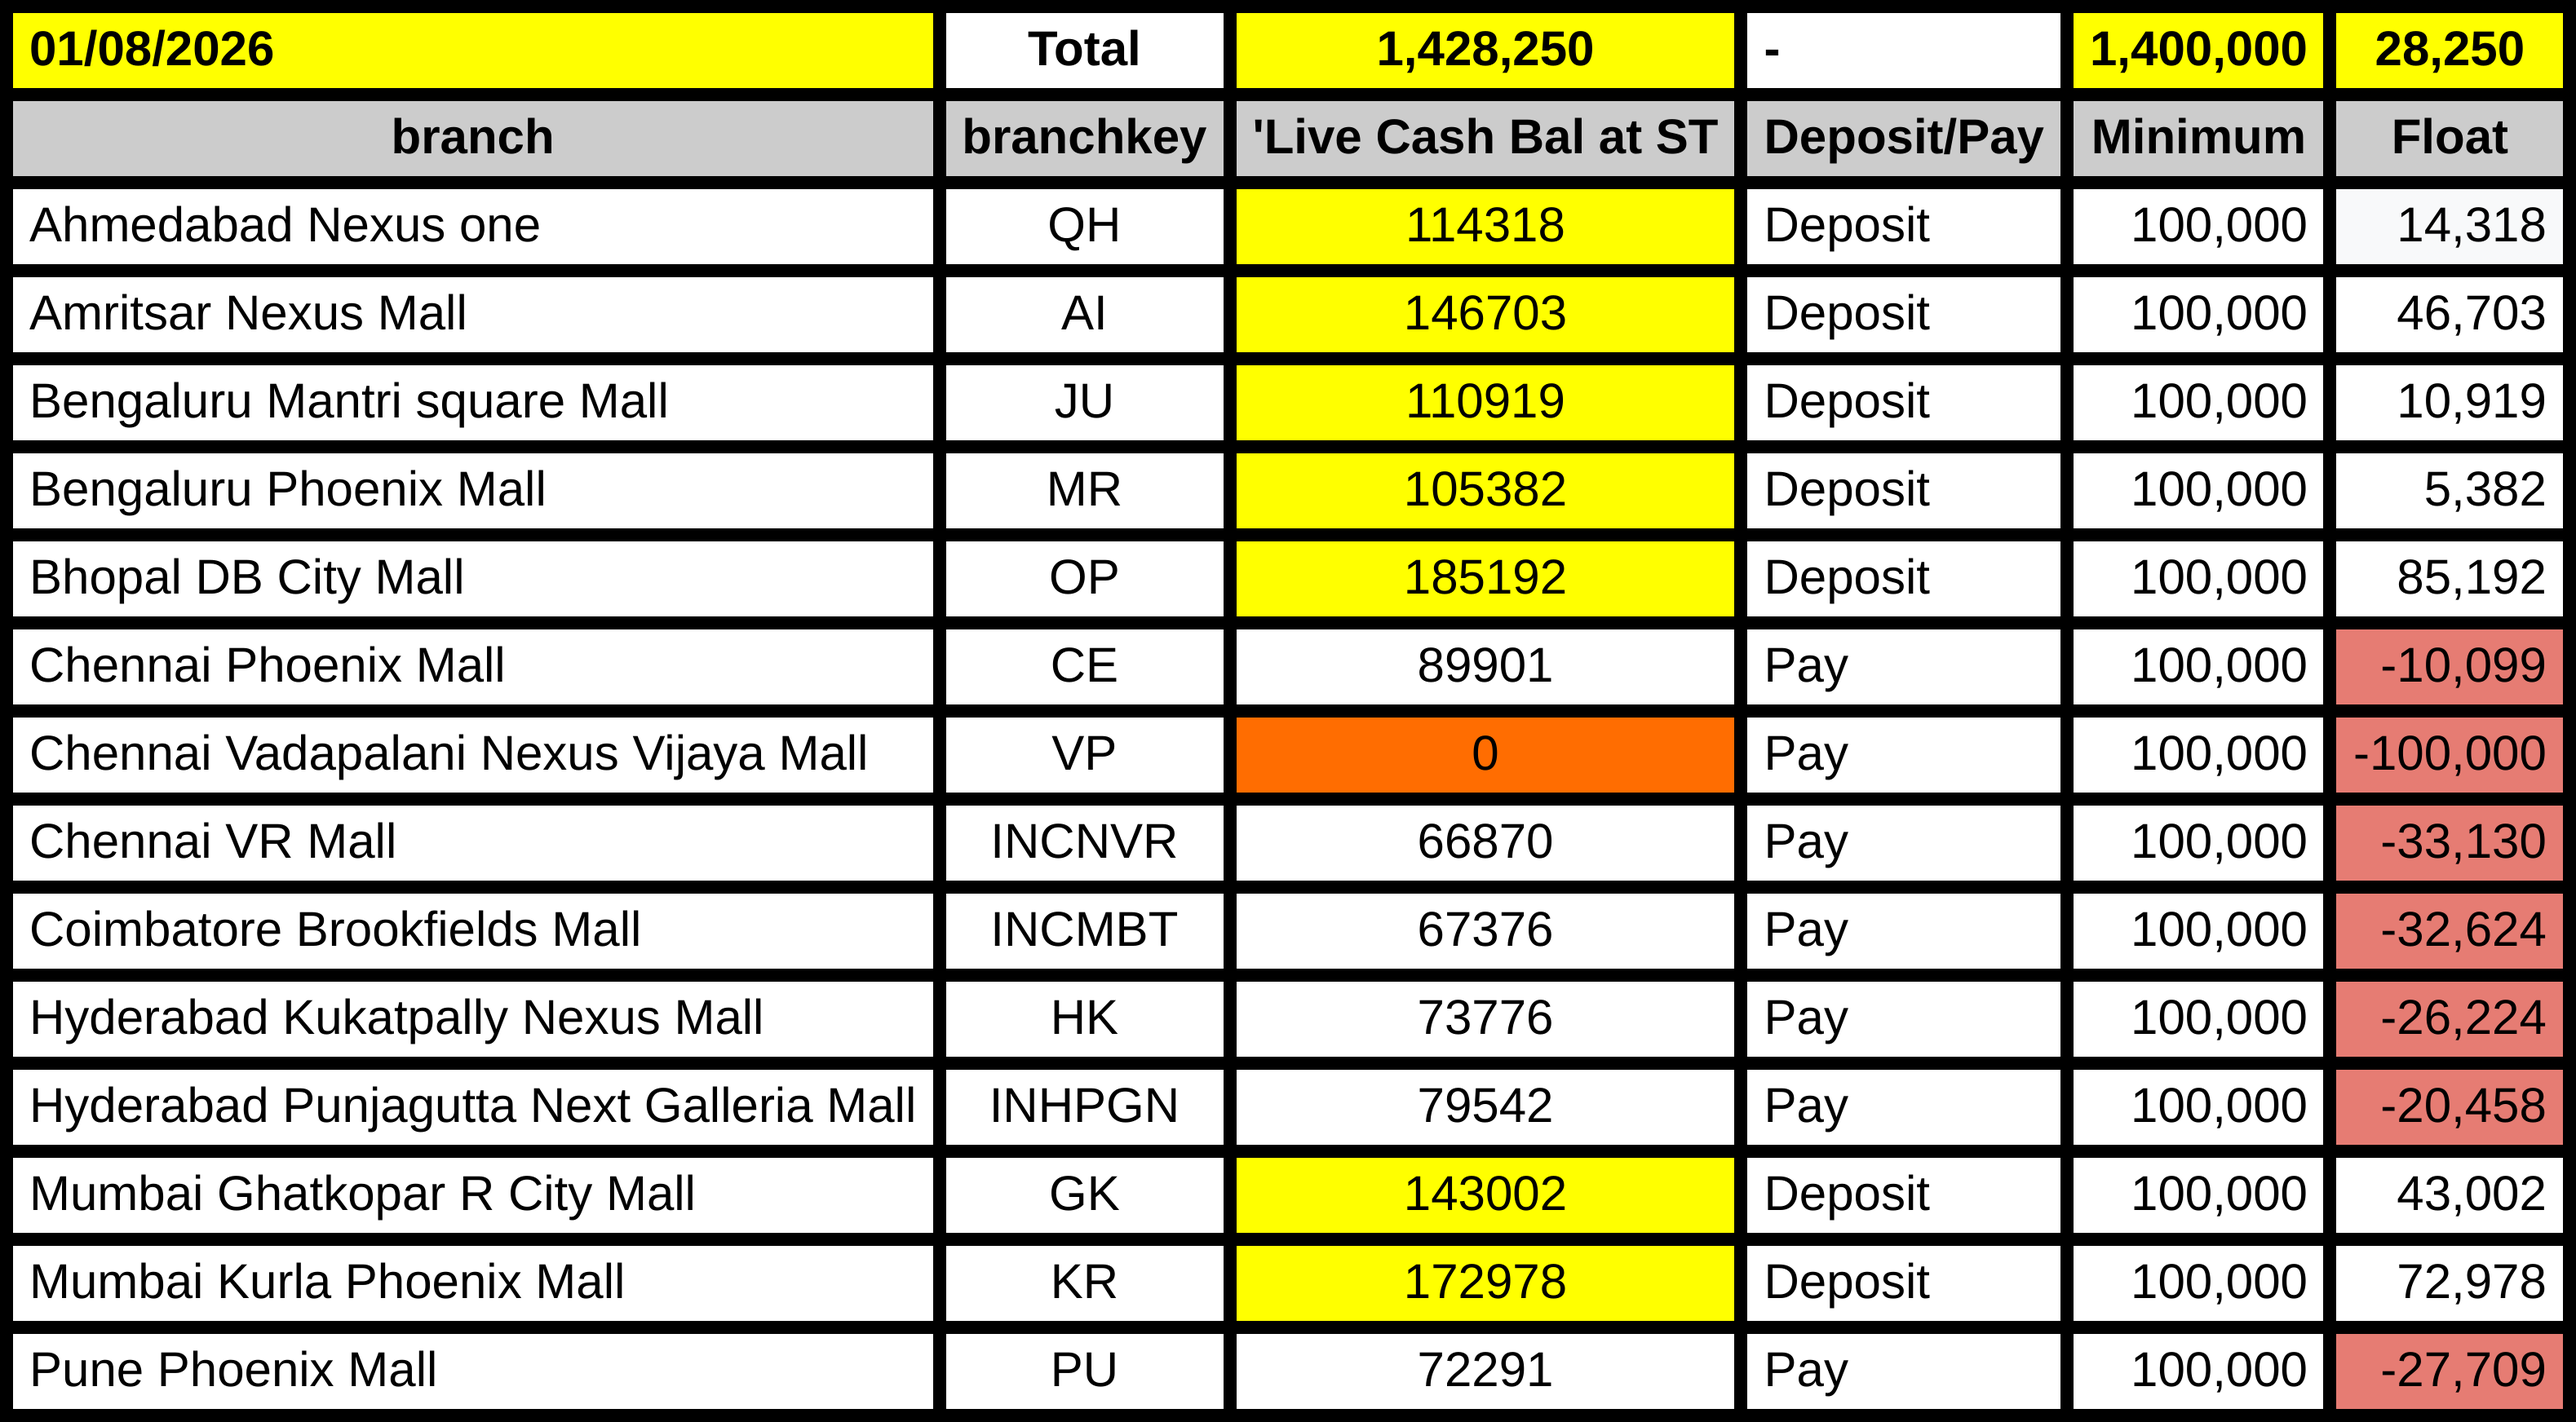
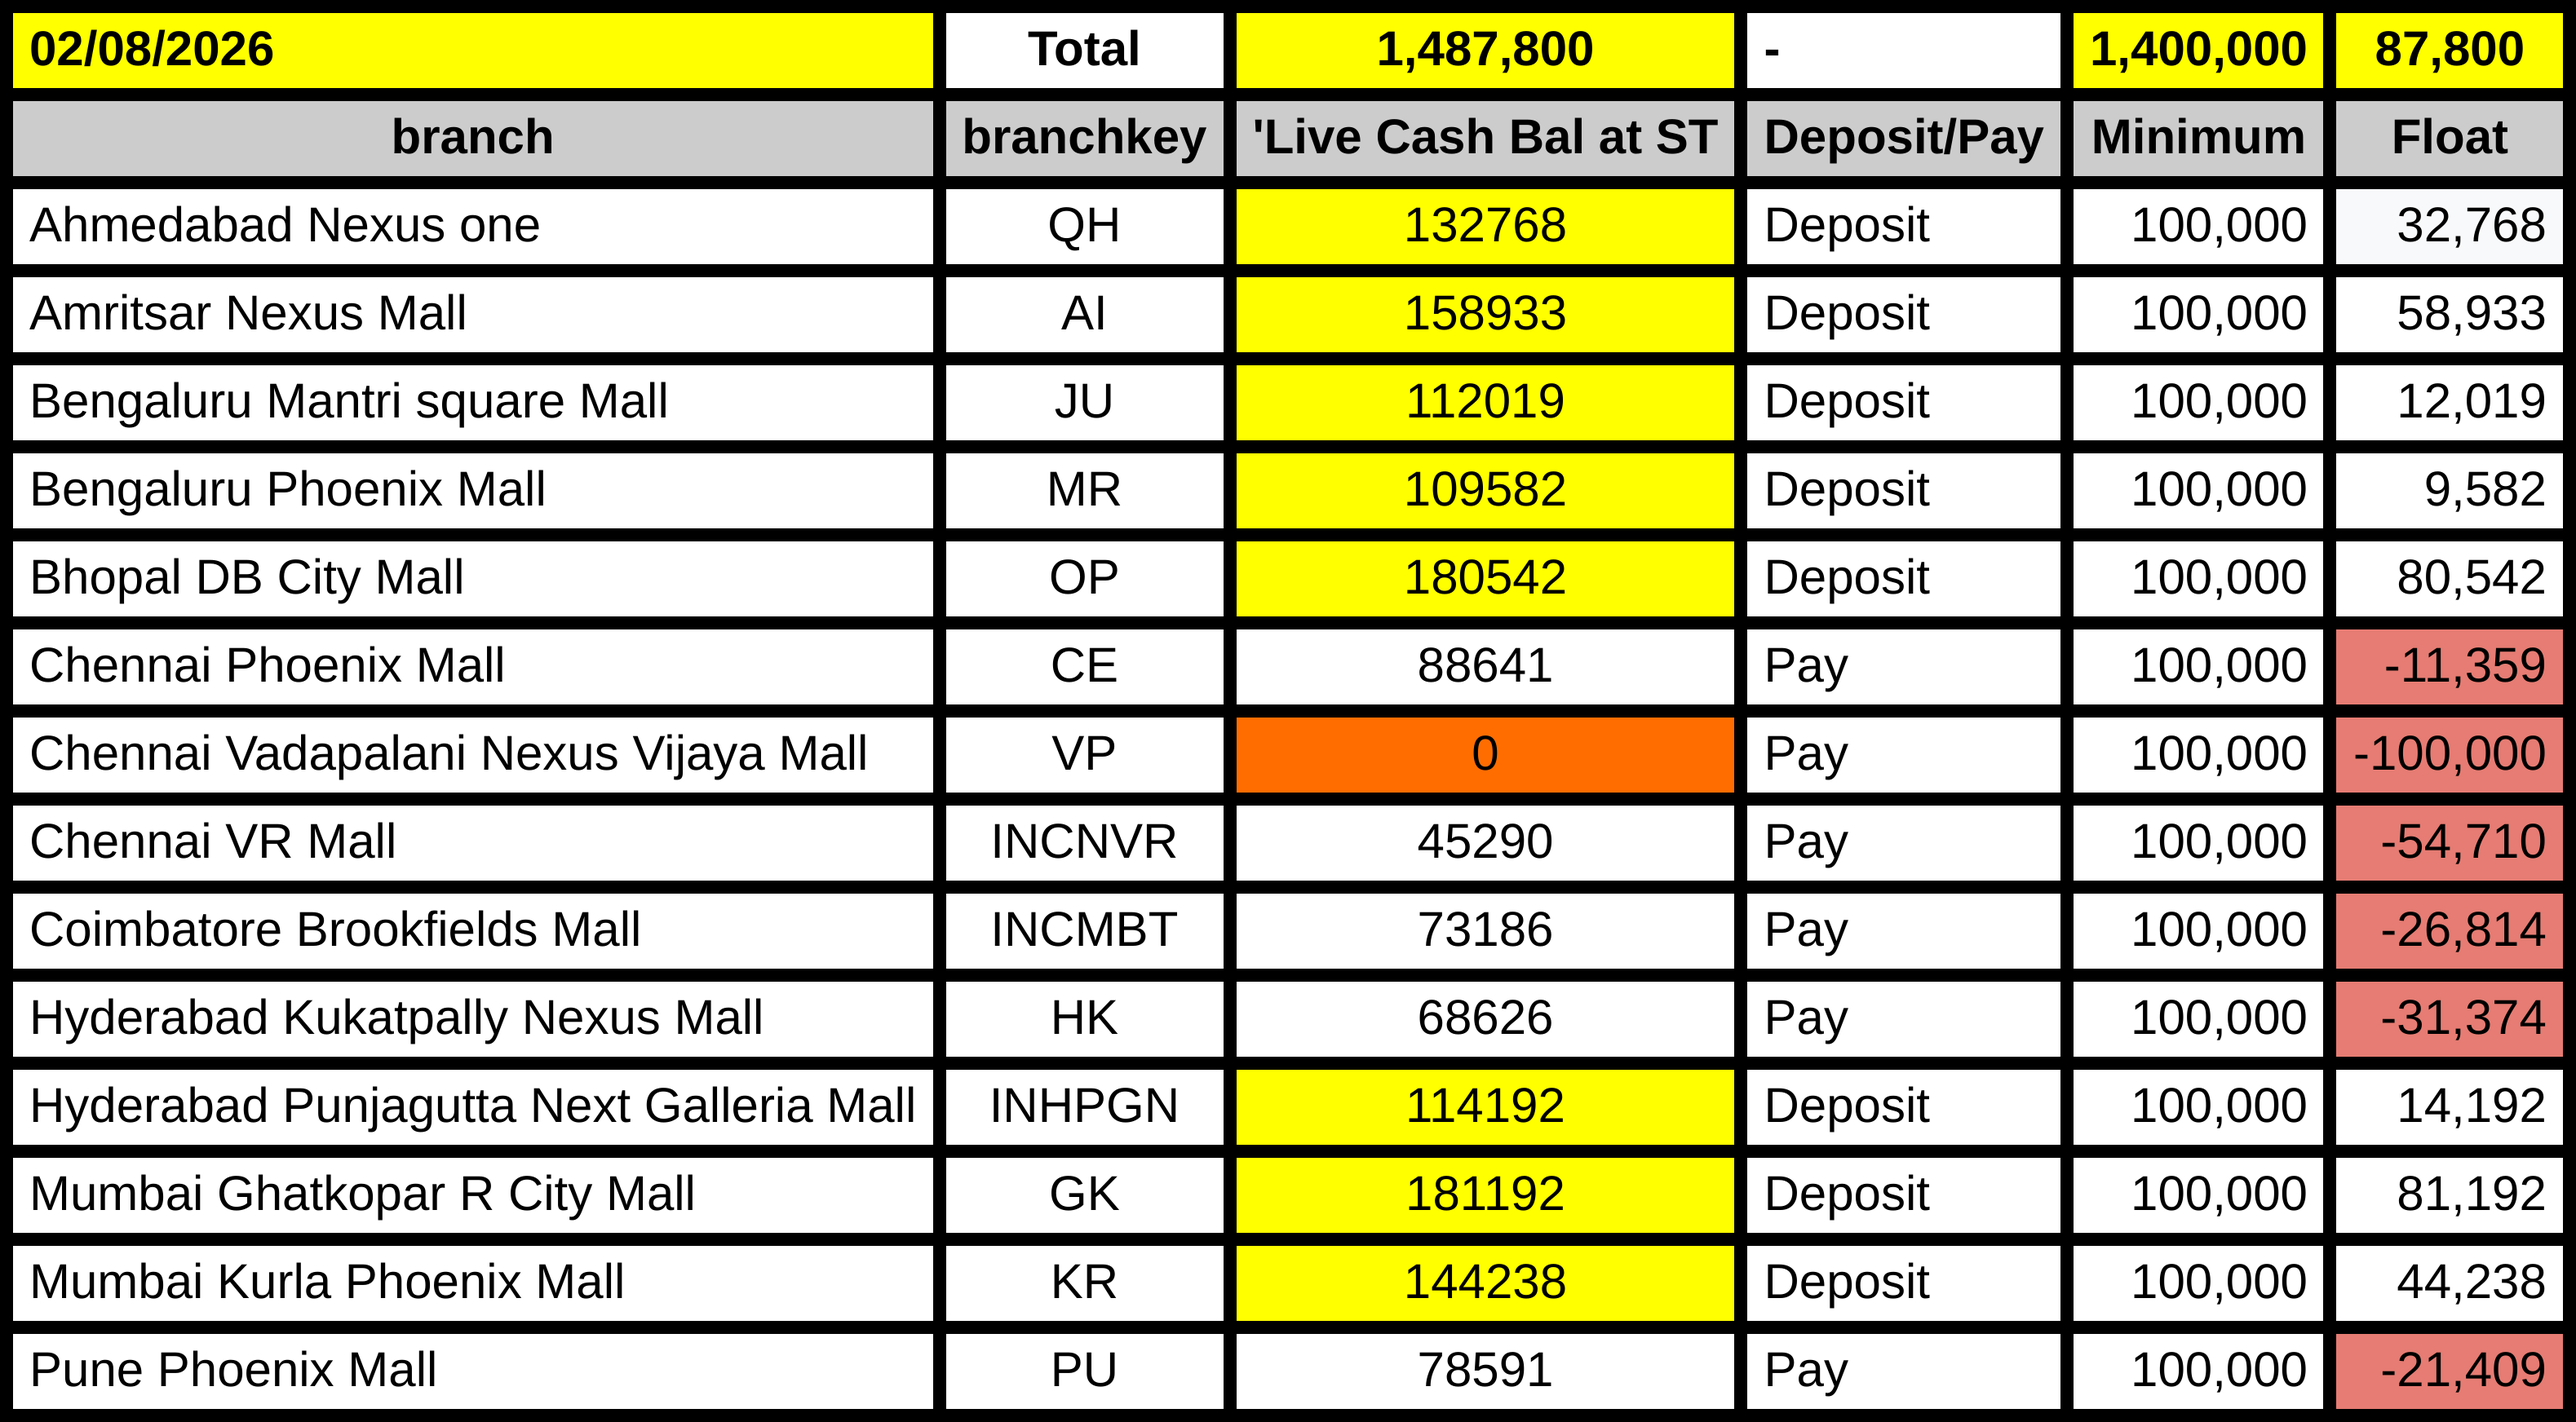
deploy: aaf780430418d9f4a7e42f8ecd05fb646ee4f24b

diff --git a/table.html b/table.html
@@ -21,7 +21,7 @@
           font-family: Arial, sans-serif;
           font-size: 30px;
           white-space: nowrap;
-        ">01/08/2026</td>
+        ">02/08/2026</td>
       
         <td style="
           background-color: #ffffff;
@@ -49,7 +49,7 @@
           font-family: Arial, sans-serif;
           font-size: 30px;
           white-space: nowrap;
-        ">1,428,250</td>
+        ">1,487,800</td>
       
         <td style="
           background-color: #ffffff;
@@ -91,7 +91,7 @@
           font-family: Arial, sans-serif;
           font-size: 30px;
           white-space: nowrap;
-        ">28,250</td>
+        ">87,800</td>
       </tr><tr>
         <td style="
           background-color: #cccccc;
@@ -217,7 +217,7 @@
           font-family: Arial, sans-serif;
           font-size: 30px;
           white-space: nowrap;
-        ">114318</td>
+        ">132768</td>
       
         <td style="
           background-color: #ffffff;
@@ -259,7 +259,7 @@
           font-family: Arial, sans-serif;
           font-size: 30px;
           white-space: nowrap;
-        ">14,318</td>
+        ">32,768</td>
       </tr><tr>
         <td style="
           background-color: #ffffff;
@@ -301,7 +301,7 @@
           font-family: Arial, sans-serif;
           font-size: 30px;
           white-space: nowrap;
-        ">146703</td>
+        ">158933</td>
       
         <td style="
           background-color: #ffffff;
@@ -343,7 +343,7 @@
           font-family: Arial, sans-serif;
           font-size: 30px;
           white-space: nowrap;
-        ">46,703</td>
+        ">58,933</td>
       </tr><tr>
         <td style="
           background-color: #ffffff;
@@ -385,7 +385,7 @@
           font-family: Arial, sans-serif;
           font-size: 30px;
           white-space: nowrap;
-        ">110919</td>
+        ">112019</td>
       
         <td style="
           background-color: #ffffff;
@@ -427,7 +427,7 @@
           font-family: Arial, sans-serif;
           font-size: 30px;
           white-space: nowrap;
-        ">10,919</td>
+        ">12,019</td>
       </tr><tr>
         <td style="
           background-color: #ffffff;
@@ -469,7 +469,7 @@
           font-family: Arial, sans-serif;
           font-size: 30px;
           white-space: nowrap;
-        ">105382</td>
+        ">109582</td>
       
         <td style="
           background-color: #ffffff;
@@ -511,7 +511,7 @@
           font-family: Arial, sans-serif;
           font-size: 30px;
           white-space: nowrap;
-        ">5,382</td>
+        ">9,582</td>
       </tr><tr>
         <td style="
           background-color: #ffffff;
@@ -553,7 +553,7 @@
           font-family: Arial, sans-serif;
           font-size: 30px;
           white-space: nowrap;
-        ">185192</td>
+        ">180542</td>
       
         <td style="
           background-color: #ffffff;
@@ -595,7 +595,7 @@
           font-family: Arial, sans-serif;
           font-size: 30px;
           white-space: nowrap;
-        ">85,192</td>
+        ">80,542</td>
       </tr><tr>
         <td style="
           background-color: #ffffff;
@@ -637,7 +637,7 @@
           font-family: Arial, sans-serif;
           font-size: 30px;
           white-space: nowrap;
-        ">89901</td>
+        ">88641</td>
       
         <td style="
           background-color: #ffffff;
@@ -679,7 +679,7 @@
           font-family: Arial, sans-serif;
           font-size: 30px;
           white-space: nowrap;
-        ">-10,099</td>
+        ">-11,359</td>
       </tr><tr>
         <td style="
           background-color: #ffffff;
@@ -805,7 +805,7 @@
           font-family: Arial, sans-serif;
           font-size: 30px;
           white-space: nowrap;
-        ">66870</td>
+        ">45290</td>
       
         <td style="
           background-color: #ffffff;
@@ -847,7 +847,7 @@
           font-family: Arial, sans-serif;
           font-size: 30px;
           white-space: nowrap;
-        ">-33,130</td>
+        ">-54,710</td>
       </tr><tr>
         <td style="
           background-color: #ffffff;
@@ -889,7 +889,7 @@
           font-family: Arial, sans-serif;
           font-size: 30px;
           white-space: nowrap;
-        ">67376</td>
+        ">73186</td>
       
         <td style="
           background-color: #ffffff;
@@ -931,7 +931,7 @@
           font-family: Arial, sans-serif;
           font-size: 30px;
           white-space: nowrap;
-        ">-32,624</td>
+        ">-26,814</td>
       </tr><tr>
         <td style="
           background-color: #ffffff;
@@ -973,7 +973,7 @@
           font-family: Arial, sans-serif;
           font-size: 30px;
           white-space: nowrap;
-        ">73776</td>
+        ">68626</td>
       
         <td style="
           background-color: #ffffff;
@@ -1015,7 +1015,7 @@
           font-family: Arial, sans-serif;
           font-size: 30px;
           white-space: nowrap;
-        ">-26,224</td>
+        ">-31,374</td>
       </tr><tr>
         <td style="
           background-color: #ffffff;
@@ -1046,7 +1046,7 @@
         ">INHPGN</td>
       
         <td style="
-          background-color: #ffffff;
+          background-color: #ffff00;
           color: #000000;
           font-weight: normal;
           font-style: normal;
@@ -1057,7 +1057,7 @@
           font-family: Arial, sans-serif;
           font-size: 30px;
           white-space: nowrap;
-        ">79542</td>
+        ">114192</td>
       
         <td style="
           background-color: #ffffff;
@@ -1071,7 +1071,7 @@
           font-family: Arial, sans-serif;
           font-size: 30px;
           white-space: nowrap;
-        ">Pay</td>
+        ">Deposit</td>
       
         <td style="
           background-color: #ffffff;
@@ -1088,7 +1088,7 @@
         ">100,000</td>
       
         <td style="
-          background-color: #e67c73;
+          background-color: #ffffff;
           color: #000000;
           font-weight: normal;
           font-style: normal;
@@ -1099,7 +1099,7 @@
           font-family: Arial, sans-serif;
           font-size: 30px;
           white-space: nowrap;
-        ">-20,458</td>
+        ">14,192</td>
       </tr><tr>
         <td style="
           background-color: #ffffff;
@@ -1141,7 +1141,7 @@
           font-family: Arial, sans-serif;
           font-size: 30px;
           white-space: nowrap;
-        ">143002</td>
+        ">181192</td>
       
         <td style="
           background-color: #ffffff;
@@ -1183,7 +1183,7 @@
           font-family: Arial, sans-serif;
           font-size: 30px;
           white-space: nowrap;
-        ">43,002</td>
+        ">81,192</td>
       </tr><tr>
         <td style="
           background-color: #ffffff;
@@ -1225,7 +1225,7 @@
           font-family: Arial, sans-serif;
           font-size: 30px;
           white-space: nowrap;
-        ">172978</td>
+        ">144238</td>
       
         <td style="
           background-color: #ffffff;
@@ -1267,7 +1267,7 @@
           font-family: Arial, sans-serif;
           font-size: 30px;
           white-space: nowrap;
-        ">72,978</td>
+        ">44,238</td>
       </tr><tr>
         <td style="
           background-color: #ffffff;
@@ -1309,7 +1309,7 @@
           font-family: Arial, sans-serif;
           font-size: 30px;
           white-space: nowrap;
-        ">72291</td>
+        ">78591</td>
       
         <td style="
           background-color: #ffffff;
@@ -1351,7 +1351,7 @@
           font-family: Arial, sans-serif;
           font-size: 30px;
           white-space: nowrap;
-        ">-27,709</td>
+        ">-21,409</td>
       </tr>
   </table>
 </body>
